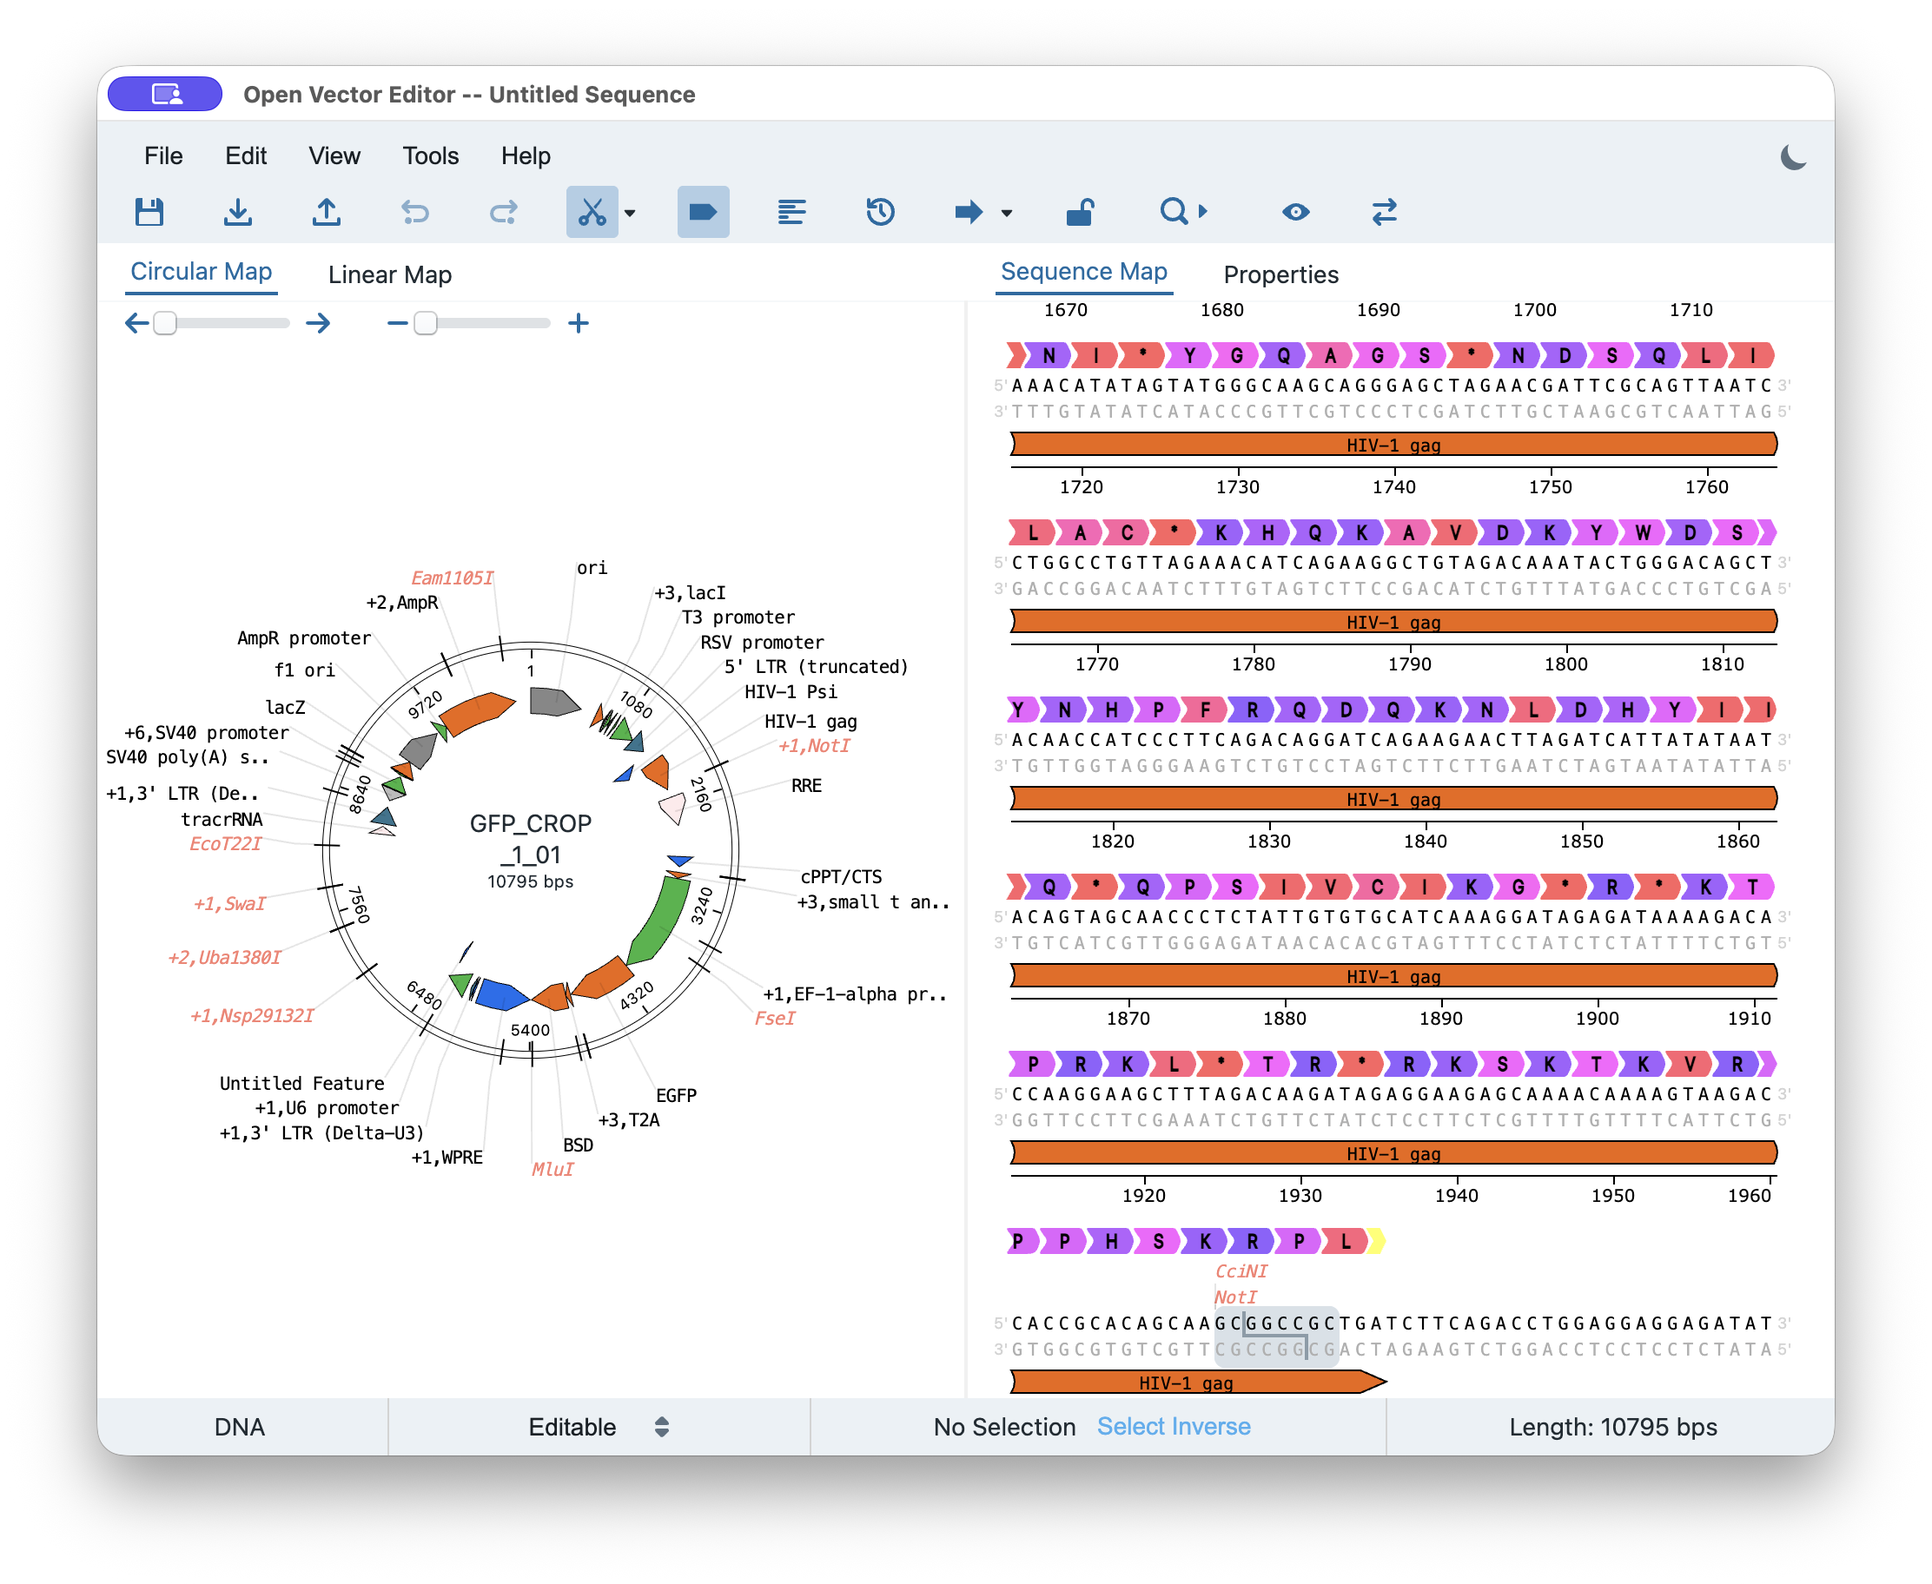
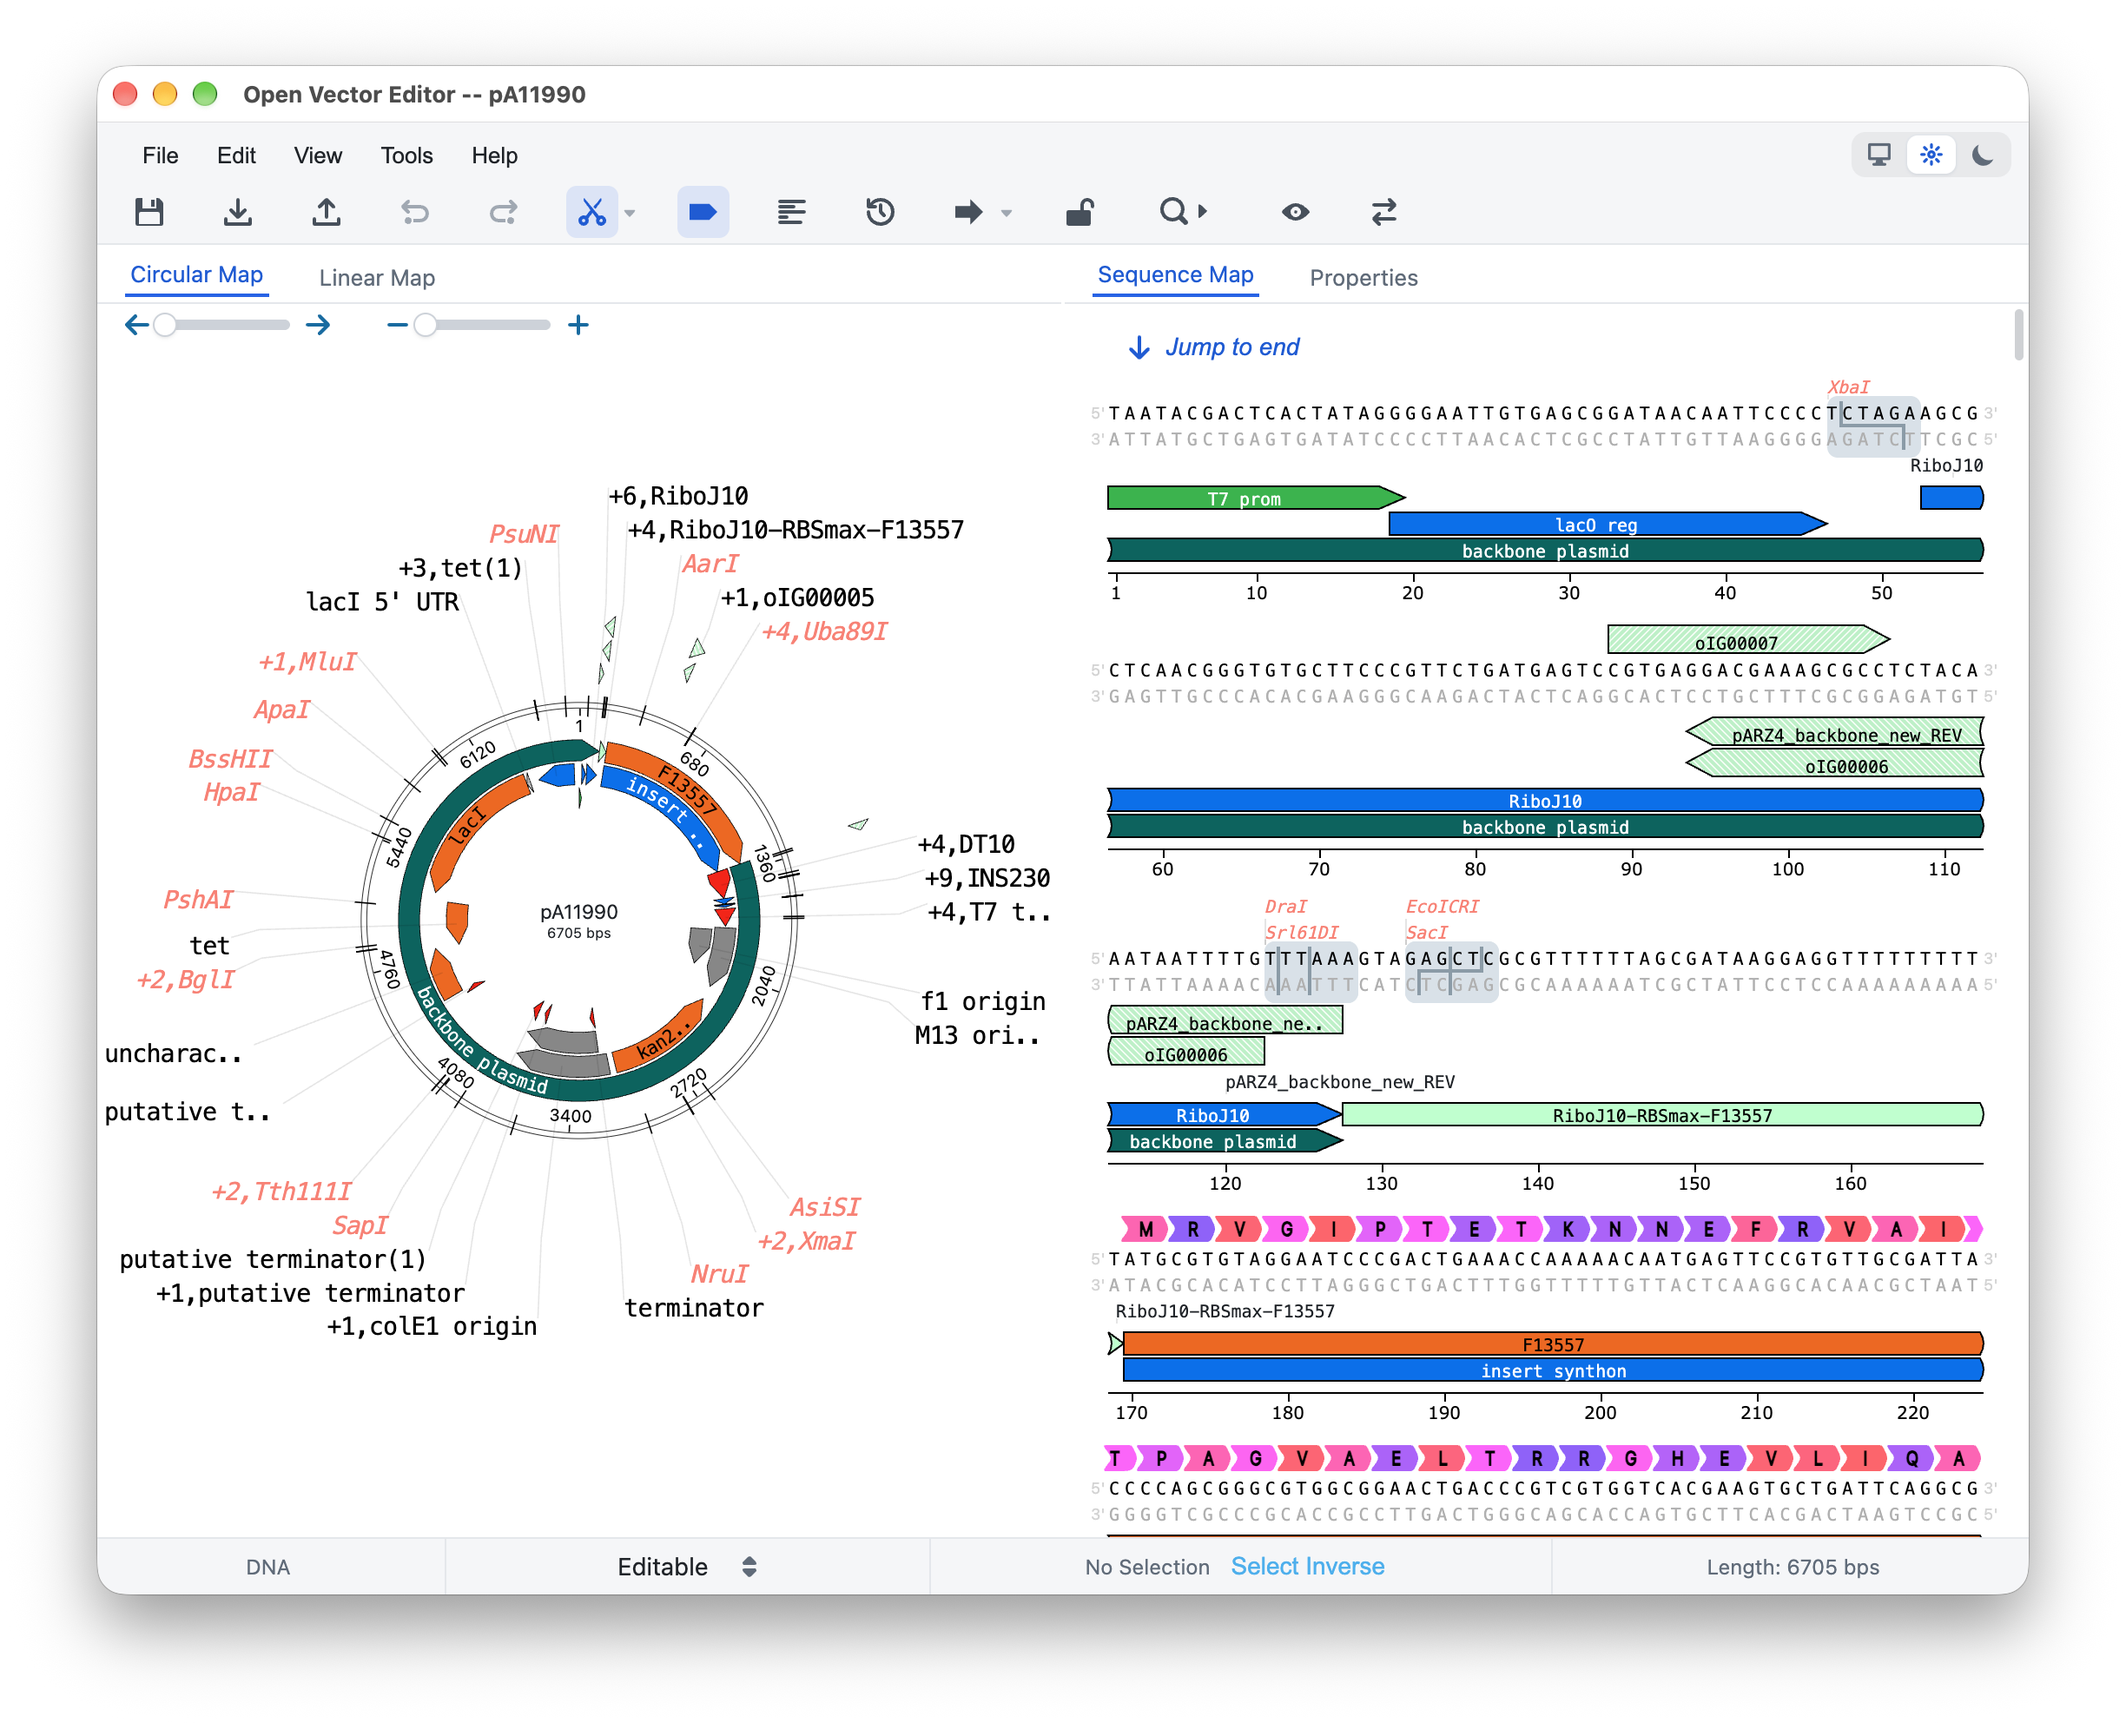
Update README screenshot for the redesigned theme
Show light and dark captures of the redesigned interface, switching with the
reader's GitHub color scheme.

diff --git a/README.md b/README.md
@@ -4,7 +4,10 @@ An independent cross-platform desktop application with a strict TypeScript appli
 
 This repository is not a source fork or vendored copy of OVE. OVE is consumed only through the pinned npm dependency and isolated behind `EditorEngine`, so its implementation can be upgraded or replaced without coupling desktop services to OVE internals.
 
-![Open Vector Editor Desktop showing the circular and sequence maps](docs/open-vector-editor-desktop.png)
+<picture>
+  <source media="(prefers-color-scheme: dark)" srcset="docs/open-vector-editor-desktop-dark.png">
+  <img alt="Open Vector Editor Desktop showing the circular and sequence maps" src="docs/open-vector-editor-desktop.png">
+</picture>
 
 ## Releases
 
